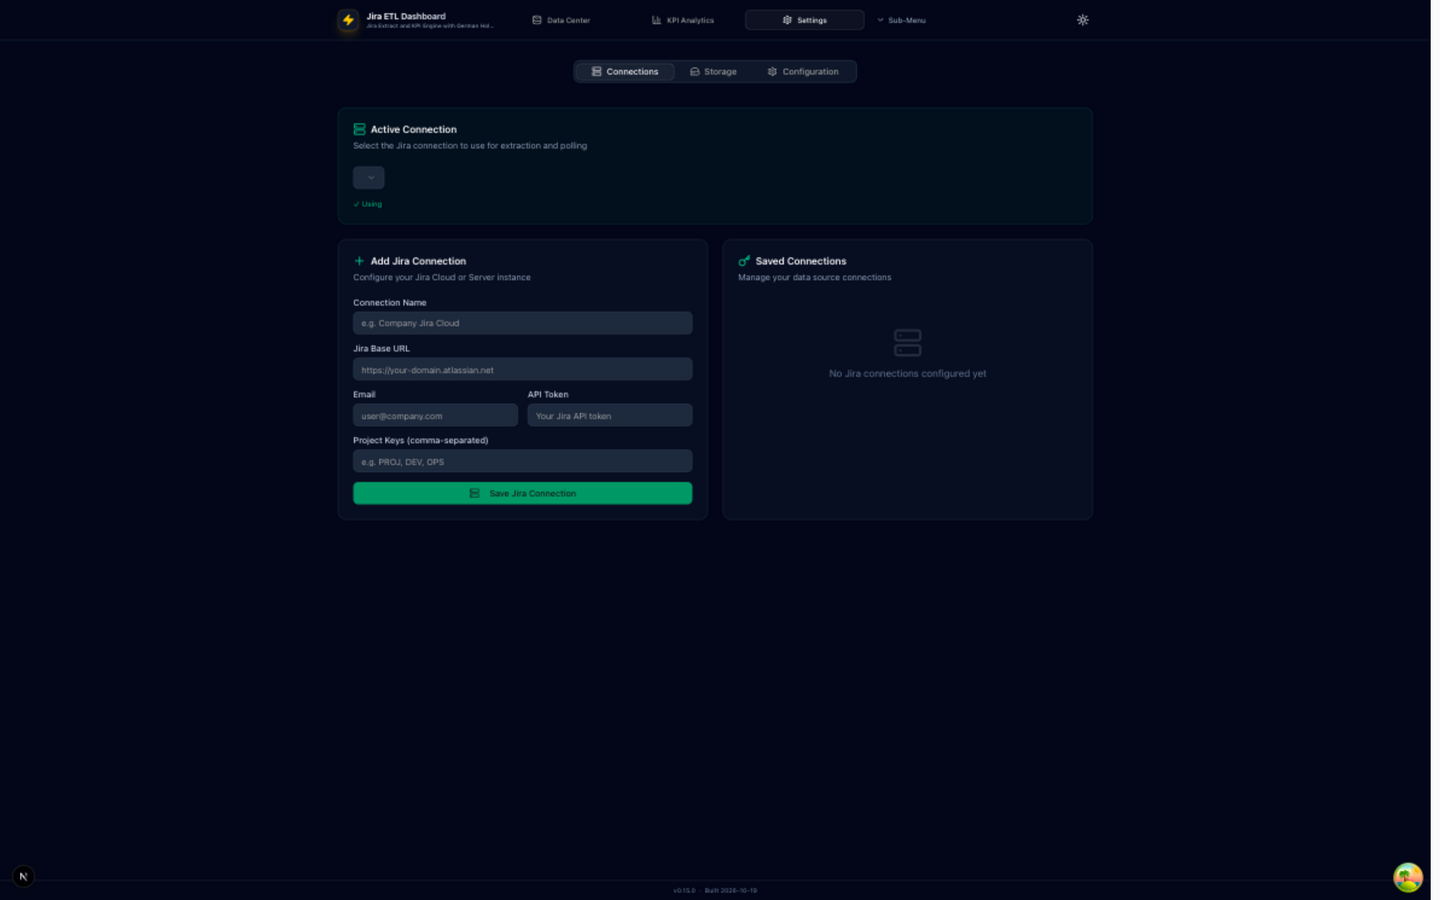
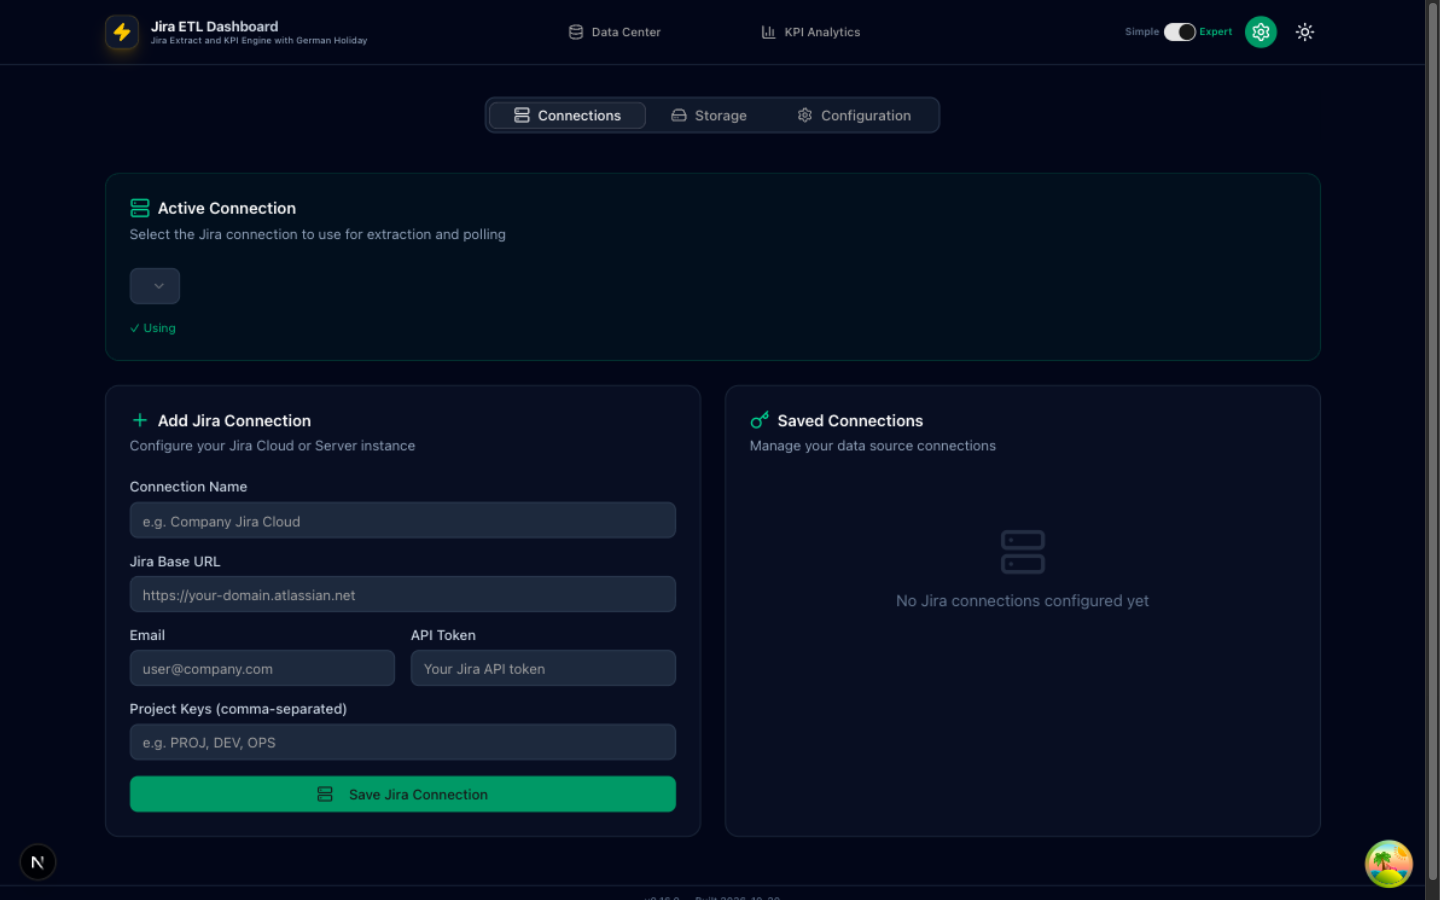
chore(release): v0.16.0 — simple/expert mode, ticket list plugin, relay config auto-load
- Simple mode (default): combined extraction + analytics view, minimal
  plugin set, first-run wizard, dynamic analysis period; Expert restores
  the full tabbed shell (header switch)
- Ticket List plugin with extract-preview columns, search/filters, and
  copy-as-TSV (shortcut T)
- Relay: auto-detects kpi-plugin-config.json next to the script/exe and
  serves it via GET /config — formula plugins load automatically in
  relay deployments
- Fixes: chart collapse chevron, plugin registry stuck loading,
  fixed-width ticket list columns, participants column visibility,
  Data Truncated warning, Data Inventory mojibake
- Release workflow now also builds a macOS relay executable
- Docs + screenshots refreshed (simple mode, expert data center,
  KPI analytics, settings)

diff --git a/README.md b/README.md
@@ -6,14 +6,21 @@ Built with **Next.js 16**, **React 19**, **Prisma ORM**, **shadcn/ui**, and **Ta
 
 ## 📸 Screenshots
 
-### Data Center
+### Simple Mode (default)
+One combined view for everyday use: quick extraction at the top (demo data shown), the analysis period automatically tracking every pulled ticket, and a minimal set of essential KPIs. A first-run wizard offers Jira setup or one-click demo data when nothing is configured yet.
+
+<p align="center">
+  <img src="docs/screenshots/simple-mode.png" alt="Simple Mode - Combined View" width="800" />
+</p>
+
+### Data Center (Expert)
 Extract ticket data from Jira with JQL queries, date range selection, scheduled polling, and export to CSV/JSON/PostgreSQL. The extraction list previews results with key, summary, assignee, **participants**, and status columns — multi-select filters for project, assignee, participants, and status, free-text search across all of them, and sort (newest created by default).
 
 <p align="center">
   <img src="docs/screenshots/data-center.png" alt="Data Center - Jira Extraction Panel" width="800" />
 </p>
 
-### KPI Analytics
+### KPI Analytics (Expert)
 Interactive dashboard with 41 KPI plugins, drill-down capabilities, chart visualizations, saved views, and alert thresholds.
 
 <p align="center">
